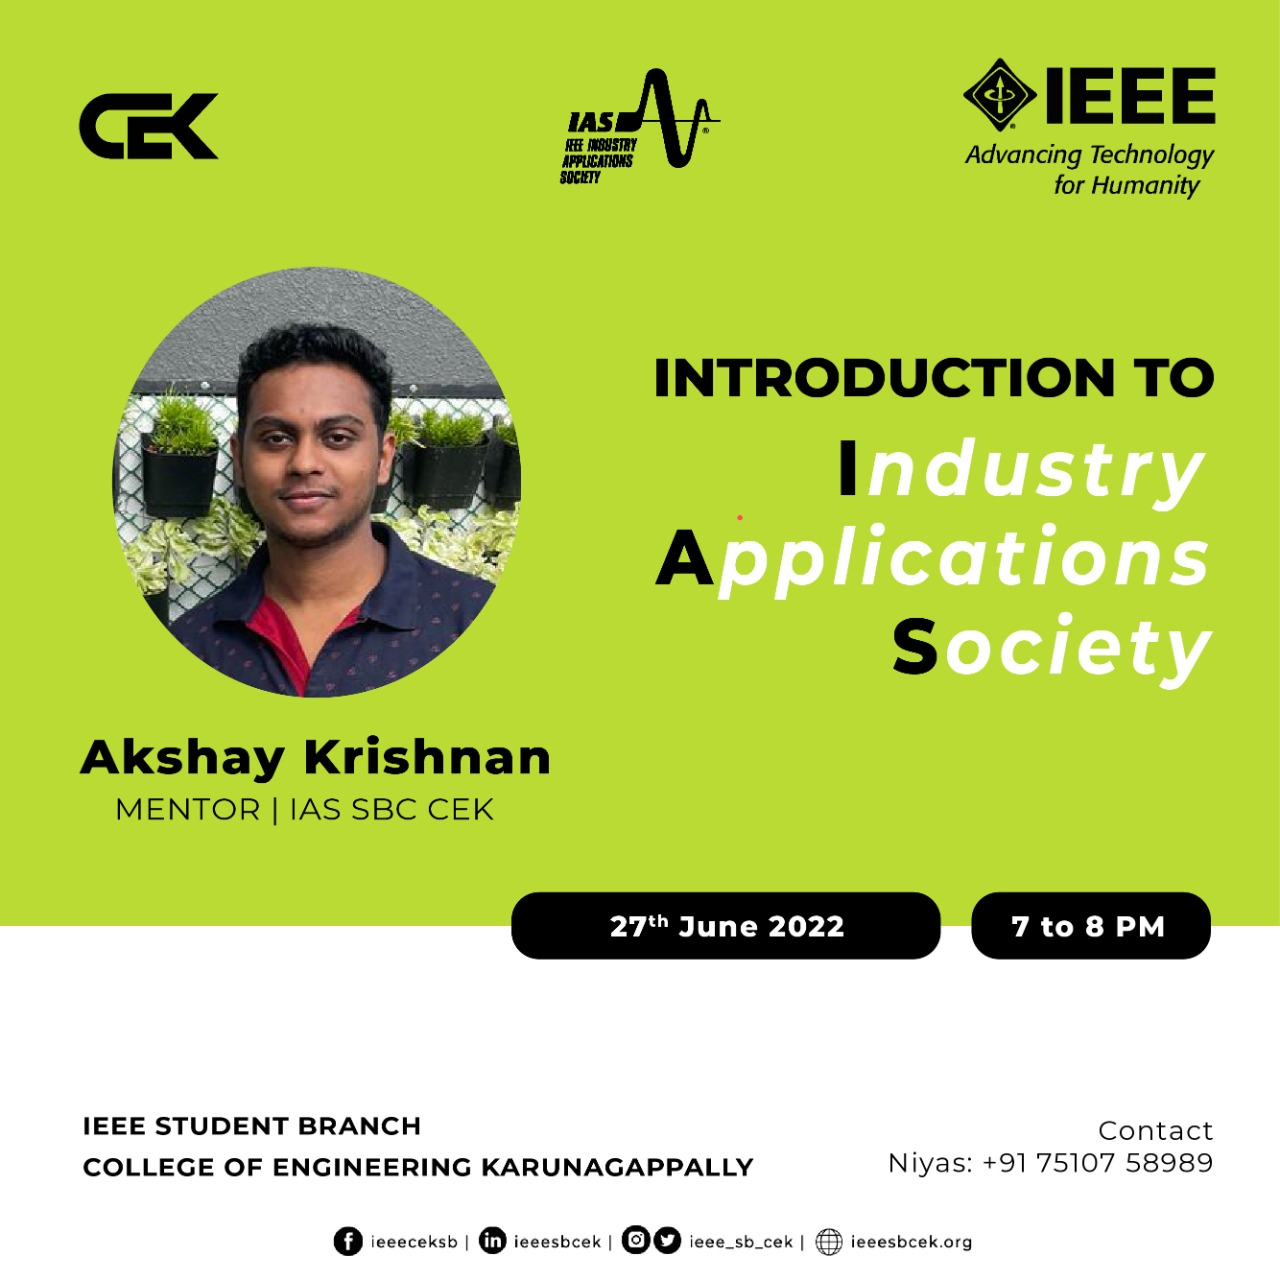
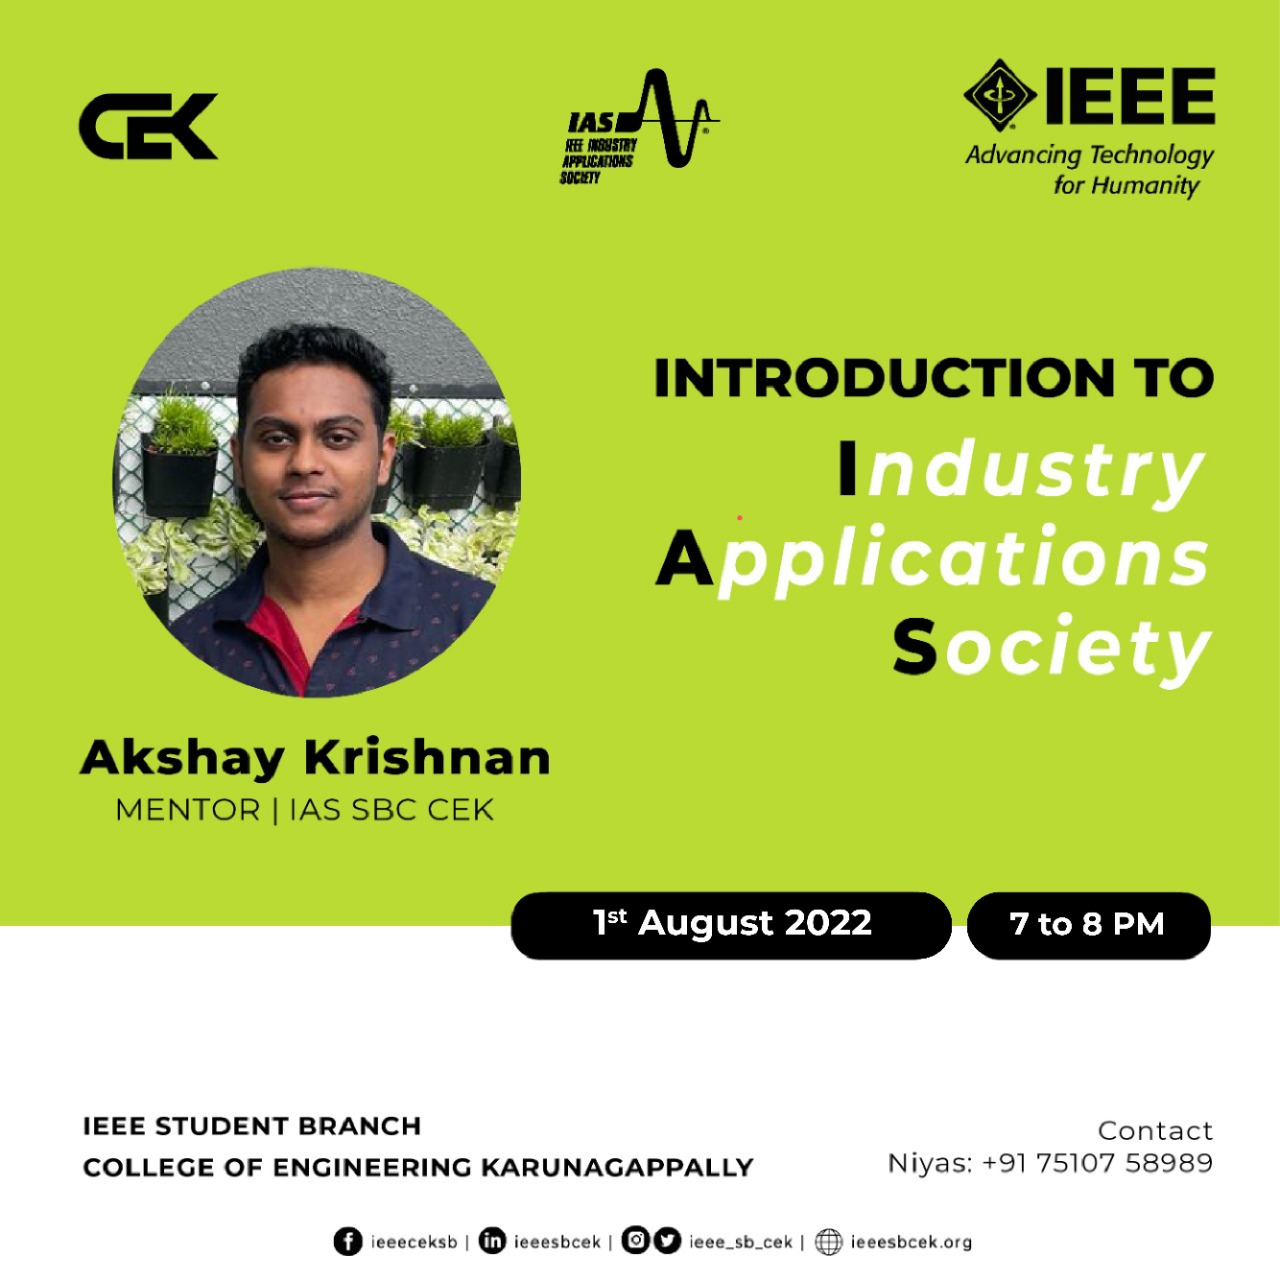
event update

diff --git a/index.html b/index.html
@@ -166,7 +166,7 @@
 					  <div class="card-body pb-5">
 						<p class="card-text">
 							Introduction to IEEE Industry Applications Society by Er.Akshay Krishnan 
-							- 27th July 2022 
+							- 1st August 2022 
 							<br>
 						</p>
 						<a href="introtiIAS.html" class="btn btn-success">Register Now</a>

diff --git a/introtiIAS.html b/introtiIAS.html
@@ -211,7 +211,7 @@
 							<i>Development Engineer at Carestack,  Former Chair, IEEE SB CEK.</i>
 							<br>
 							<br>
-							<b>Date:</b> 27th July 2022
+							<b>Date:</b> 1st August 2022
 							<br>
 							<b>Time:</b> 7 pm to 8 pm IST
 							<br>
